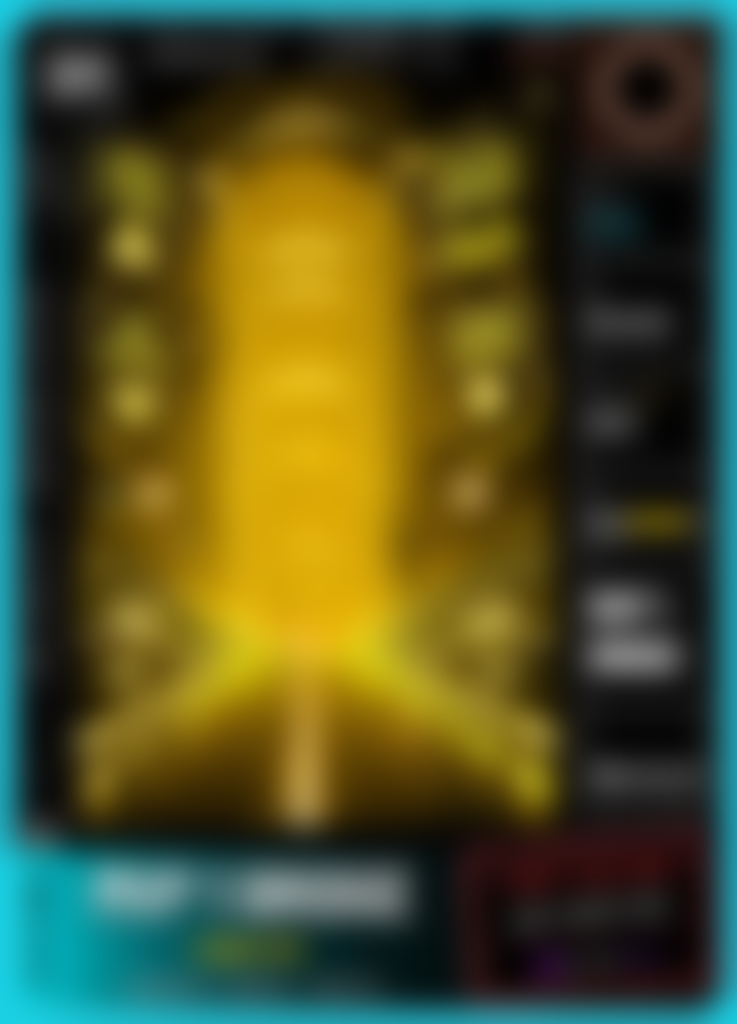
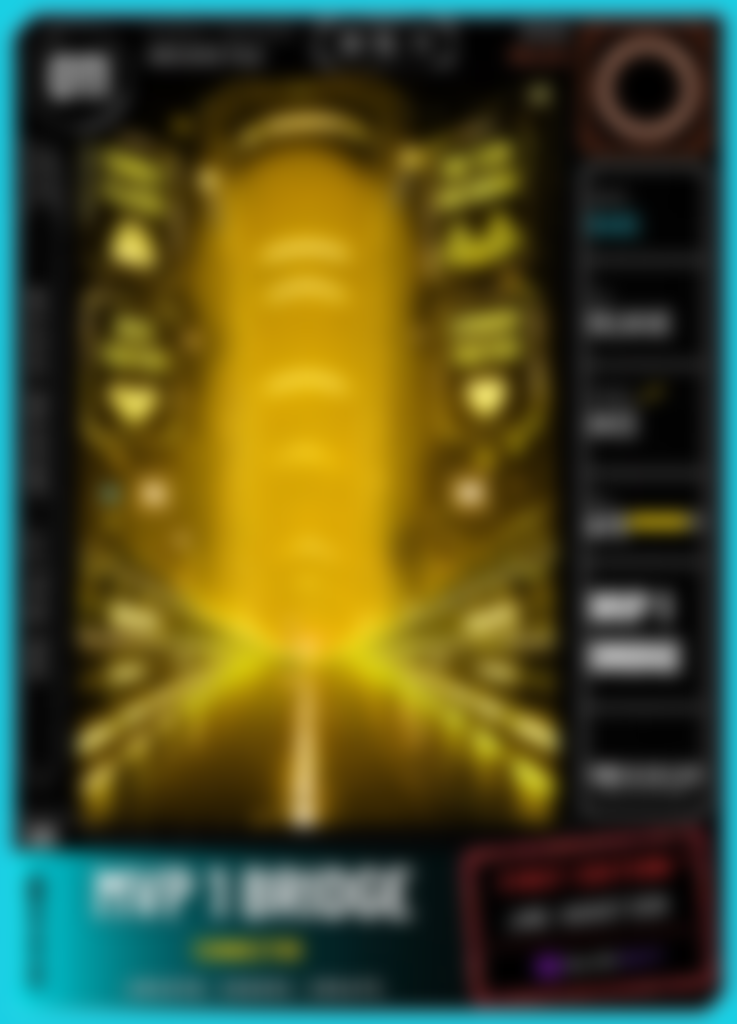
feat: milder blur previews, clickable cards, and discord CTA modals

diff --git a/src/app/album/AlbumClient.tsx b/src/app/album/AlbumClient.tsx
@@ -101,41 +101,50 @@ export default function AlbumClient({ cards }: AlbumClientProps) {
             <motion.div
               key={card.card_id}
               onClick={() => {
-                if (card.isOwned) {
-                  setSelectedCard(card);
-                  setIsFlipped(false);
-                }
+                setSelectedCard(card);
+                setIsFlipped(false);
               }}
-              className={`glass-card overflow-hidden border flex flex-col h-full relative group transition-all duration-500 ${
+              className={`glass-card overflow-hidden border flex flex-col h-full relative group transition-all duration-500 cursor-pointer hover:scale-[1.045] active:scale-[0.985] ${
                 card.isOwned
-                  ? `cursor-pointer hover:scale-[1.02] border-white/10 hover:border-white/20 hover:bg-[#0e0e12] ${styles.glow}`
-                  : "border-white/5 opacity-70 shadow-none pointer-events-none"
+                  ? `border-white/10 hover:border-white/20 hover:bg-[#0e0e12] ${styles.glow}`
+                  : "border-white/5 opacity-75 hover:opacity-95 hover:border-white/15 bg-white/[0.01]"
               }`}
             >
               {/* Asset karty nebo silueta */}
               <div className="aspect-[7/10] relative w-full overflow-hidden bg-black/50 flex items-center justify-center border-b border-white/5 select-none">
                 {card.isOwned ? (
-                  <img
-                    src={`/api/cards/${card.card_id}/image?side=front`}
-                    alt={card.name}
-                    className="w-full h-full object-cover transition-transform duration-700 group-hover:scale-105"
-                  />
+                  <>
+                    <img
+                      src={`/api/cards/${card.card_id}/image?side=front`}
+                      alt={card.name}
+                      className="w-full h-full object-cover transition-transform duration-700 group-hover:scale-110"
+                    />
+                    {/* Hover click CTA overlay pro vlastněnou kartu */}
+                    <div className="absolute inset-0 bg-black/30 opacity-0 group-hover:opacity-100 transition-opacity duration-300 flex items-center justify-center z-15 backdrop-blur-[0.5px]">
+                      <span className="px-3.5 py-1.5 rounded-xl bg-white/10 border border-white/20 backdrop-blur-md text-[10px] font-display font-bold text-white tracking-widest uppercase shadow-lg transform translate-y-2 group-hover:translate-y-0 transition-all duration-300">
+                        Zobrazit detail
+                      </span>
+                    </div>
+                  </>
                 ) : (
                   <img
                     src={`/cards/previews/${card.card_id}_blur.png`}
                     alt={card.name}
-                    className="w-full h-full object-cover opacity-85 filter blur-[1px]"
+                    className="w-full h-full object-cover opacity-85 filter blur-[0.5px] brightness-[0.75] transition-transform duration-700 group-hover:scale-110"
                   />
                 )}
 
-                {/* Locked overlay na nevlastněné kartě */}
+                {/* Locked/Unowned overlay na nevlastněné kartě s hover efektem */}
                 {!card.isOwned && (
-                  <div className="absolute inset-0 bg-black/55 flex flex-col items-center justify-center z-20 backdrop-blur-[1px]">
-                    <div className="w-12 h-12 rounded-xl bg-white/5 border border-white/10 flex items-center justify-center mb-2">
-                      <Lock size={20} className="text-white/60" />
+                  <div className="absolute inset-0 bg-black/55 flex flex-col items-center justify-center z-20 backdrop-blur-[1px] group-hover:bg-black/65 transition-colors duration-300">
+                    <div className="w-12 h-12 rounded-xl bg-white/5 border border-white/10 flex items-center justify-center mb-2 group-hover:scale-110 group-hover:border-white/20 transition-all duration-300">
+                      <Lock size={20} className="text-white/60 group-hover:text-white transition-colors duration-300" />
                     </div>
-                    <span className="font-display text-xs font-bold text-white/60 tracking-wider uppercase">
+                    <span className="font-display text-xs font-bold text-white/60 tracking-wider uppercase transition-all duration-300 group-hover:text-white group-hover:scale-105">
                       {isFullyHidden ? "Uzamčeno" : "Nezískáno"}
+                    </span>
+                    <span className="absolute bottom-4 text-[9px] font-display font-semibold tracking-widest uppercase text-white/30 opacity-0 group-hover:opacity-100 transition-opacity duration-300">
+                      {isFullyHidden ? "Detail relikvie" : "Jak získat?"}
                     </span>
                   </div>
                 )}
@@ -215,127 +224,182 @@ export default function AlbumClient({ cards }: AlbumClientProps) {
                   <X size={16} />
                 </button>
 
-                 {/* Levá část: Karta s 3D otáčením */}
+                 {/* Levá část: Obrázek karty (3D otáčení pro vlastněné, statický náhled pro nevlastněné) */}
                  <div className="w-full md:w-[45%] flex flex-col items-center justify-center border-b md:border-b-0 md:border-r border-white/5 select-none bg-black/40 p-6 sm:p-8 gap-4 relative">
-                   <div 
-                     className="w-full relative transition-transform duration-700 cursor-pointer"
-                     style={{ 
-                       transformStyle: "preserve-3d",
-                       transform: isFlipped ? "rotateY(180deg)" : "rotateY(0deg)",
-                       aspectRatio: "7/10"
-                     }}
-                     onClick={() => setIsFlipped(!isFlipped)}
-                   >
-                     {/* Lícová strana (Přední strana karty) */}
-                     <div 
-                       className="absolute inset-0 w-full h-full flex flex-col items-center justify-center bg-black overflow-hidden rounded-xl border border-white/10"
-                       style={{ backfaceVisibility: "hidden" }}
-                     >
+                   {selectedCard.isOwned ? (
+                     <>
+                       <div 
+                         className="w-full relative transition-transform duration-700 cursor-pointer"
+                         style={{ 
+                           transformStyle: "preserve-3d",
+                           transform: isFlipped ? "rotateY(180deg)" : "rotateY(0deg)",
+                           aspectRatio: "7/10"
+                         }}
+                         onClick={() => setIsFlipped(!isFlipped)}
+                       >
+                         {/* Lícová strana (Přední strana karty) */}
+                         <div 
+                           className="absolute inset-0 w-full h-full flex flex-col items-center justify-center bg-black overflow-hidden rounded-xl border border-white/10"
+                           style={{ backfaceVisibility: "hidden" }}
+                         >
+                           <img
+                             src={`/api/cards/${selectedCard.card_id}/image?side=front`}
+                             alt={selectedCard.name}
+                             className="w-full h-full object-cover"
+                           />
+                           {/* Badge edice ve foto rohu */}
+                           <span className={`absolute top-4 left-4 text-[9px] font-bold font-display px-2 py-0.5 rounded border tracking-wider ${styles.text}`}>
+                             {selectedCard.family.replace("_", " ")}
+                           </span>
+                         </div>
+
+                         {/* Rubová strana (Zadní strana karty) */}
+                         <div 
+                           className="absolute inset-0 w-full h-full rounded-xl border overflow-hidden bg-black"
+                           style={{ 
+                             backfaceVisibility: "hidden", 
+                             transform: "rotateY(180deg)",
+                             borderWidth: "1.5px",
+                             borderColor: styles.color
+                           }}
+                         >
+                           <img
+                             src={`/api/cards/${selectedCard.card_id}/image?side=back`}
+                             alt={`${selectedCard.name} - Zadní strana`}
+                             className="w-full h-full object-cover"
+                           />
+                         </div>
+                       </div>
+
+                       {/* Tlačítko pro otočení karty */}
+                       <button
+                         onClick={() => setIsFlipped(!isFlipped)}
+                         className="flex items-center gap-1.5 px-3 py-1.5 rounded-lg border border-white/10 bg-white/5 hover:bg-white/10 text-[10px] font-bold text-slate-400 hover:text-white uppercase tracking-wider transition-all duration-300 cursor-pointer"
+                       >
+                         <Compass size={12} className="animate-spin-slow text-purple-400" />
+                         Otočit kartu
+                       </button>
+                     </>
+                   ) : (
+                     <div className="w-full aspect-[7/10] relative rounded-xl overflow-hidden border border-white/10 shadow-lg">
                        <img
-                         src={`/api/cards/${selectedCard.card_id}/image?side=front`}
+                         src={`/cards/previews/${selectedCard.card_id}_blur.png`}
                          alt={selectedCard.name}
-                         className="w-full h-full object-cover"
+                         className="w-full h-full object-cover filter blur-[0.5px] brightness-[0.75]"
                        />
-                       {/* Badge edice ve foto rohu */}
-                       <span className={`absolute top-4 left-4 text-[9px] font-bold font-display px-2 py-0.5 rounded border tracking-wider ${styles.text}`}>
-                         {selectedCard.family.replace("_", " ")}
-                       </span>
+                       <div className="absolute inset-0 bg-black/45 flex flex-col items-center justify-center">
+                         <div className="w-12 h-12 rounded-xl bg-white/5 border border-white/10 flex items-center justify-center mb-2">
+                           <Lock size={20} className="text-white/60" />
+                         </div>
+                         <span className="font-display text-xs font-bold text-white/60 tracking-wider uppercase">
+                           Nezískáno
+                         </span>
+                       </div>
                      </div>
-
-                     {/* Rubová strana (Zadní strana karty) */}
-                     <div 
-                       className="absolute inset-0 w-full h-full rounded-xl border overflow-hidden bg-black"
-                       style={{ 
-                         backfaceVisibility: "hidden", 
-                         transform: "rotateY(180deg)",
-                         borderWidth: "1.5px",
-                         borderColor: styles.color
-                       }}
-                     >
-                       <img
-                         src={`/api/cards/${selectedCard.card_id}/image?side=back`}
-                         alt={`${selectedCard.name} - Zadní strana`}
-                         className="w-full h-full object-cover"
-                       />
-                     </div>
-                   </div>
-
-                   {/* Tlačítko pro otočení karty */}
-                   <button
-                     onClick={() => setIsFlipped(!isFlipped)}
-                     className="flex items-center gap-1.5 px-3 py-1.5 rounded-lg border border-white/10 bg-white/5 hover:bg-white/10 text-[10px] font-bold text-slate-400 hover:text-white uppercase tracking-wider transition-all duration-300 cursor-pointer"
-                   >
-                     <Compass size={12} className="animate-spin-slow text-purple-400" />
-                     Otočit kartu
-                   </button>
+                   )}
                  </div>
 
-                {/* Pravá část: Lore detaily */}
+                {/* Pravá část: Lore detaily a CTA */}
                 <div className="p-6 md:p-8 flex-1 flex flex-col justify-between">
                   <div className="space-y-4">
                     <div>
                       <div className="flex items-center gap-2 mb-1.5 flex-wrap">
                         <h3 className="font-display font-bold text-xl uppercase tracking-wider text-white">
-                          {selectedCard.name}
+                          {!selectedCard.isOwned && selectedCard.is_locked ? "Utajený Artefakt" : selectedCard.name}
                         </h3>
-                         <span className={`text-[9px] font-bold px-2 py-0.5 rounded border tracking-wider flex items-center gap-0.5 shrink-0 uppercase ${
-                          selectedCard.user_edition === "LEGENDARY" || selectedCard.user_edition === "FIRST_EDITION"
-                            ? "bg-amber-500/10 text-amber-400 border-amber-500/20"
-                            : selectedCard.user_edition === "RARE"
-                              ? "bg-blue-500/10 text-blue-400 border-blue-500/20"
-                              : "bg-white/5 text-white/50 border-white/10"
-                        }`}>
-                          {(selectedCard.user_edition === "LEGENDARY" || selectedCard.user_edition === "FIRST_EDITION") && <Sparkles size={8} className="text-amber-400" />}
-                          {selectedCard.user_edition === "FIRST_EDITION" ? "FIRST EDITION" : selectedCard.user_edition === "BASE" ? "BASE EDITION" : selectedCard.user_edition}
-                        </span>
+                        {selectedCard.isOwned && (
+                          <span className={`text-[9px] font-bold px-2 py-0.5 rounded border tracking-wider flex items-center gap-0.5 shrink-0 uppercase ${
+                            selectedCard.user_edition === "LEGENDARY" || selectedCard.user_edition === "FIRST_EDITION"
+                              ? "bg-amber-500/10 text-amber-400 border-amber-500/20"
+                              : selectedCard.user_edition === "RARE"
+                                ? "bg-blue-500/10 text-blue-400 border-blue-500/20"
+                                : "bg-white/5 text-white/50 border-white/10"
+                          }`}>
+                            {(selectedCard.user_edition === "LEGENDARY" || selectedCard.user_edition === "FIRST_EDITION") && <Sparkles size={8} className="text-amber-400" />}
+                            {selectedCard.user_edition === "FIRST_EDITION" ? "FIRST EDITION" : selectedCard.user_edition === "BASE" ? "BASE EDITION" : selectedCard.user_edition}
+                          </span>
+                        )}
+                        {!selectedCard.isOwned && (
+                          <span className="text-[9px] font-bold px-2 py-0.5 rounded border tracking-wider bg-white/5 text-white/40 border-white/10 uppercase">
+                            Nezískáno
+                          </span>
+                        )}
                       </div>
-                      <span className="text-[10px] font-semibold text-slate-500 tracking-wider">
-                        ID KARTY: {selectedCard.card_id}
+                      <span className="text-[10px] font-semibold text-slate-500 tracking-wider uppercase">
+                        RODINA: {selectedCard.family.replace("_", " ")}
                       </span>
                     </div>
 
                     <div className="p-4 rounded-xl bg-white/[0.02] border border-white/5">
                       <p className="text-xs text-slate-300 leading-relaxed italic">
-                        „{selectedCard.lore}“
+                        {!selectedCard.isOwned && selectedCard.is_locked 
+                          ? "„Pravá identita a moc této relikvie jsou chráněny přísným kódem. Záznamy v archivu budou odhaleny až nastane správný čas.“"
+                          : `„${selectedCard.lore}“`
+                        }
                       </p>
                     </div>
 
-                    {/* Metadata o získání */}
-                    <div className="space-y-2.5 border-t border-white/5 pt-4 text-xs">
-                      <div className="flex items-center gap-2 text-slate-400">
-                        <Calendar size={14} className="text-purple-400 shrink-0" />
-                        <span>Získáno dne:</span>
-                        <strong className="text-slate-200 ml-auto font-medium">
-                          {selectedCard.obtained_at ? new Date(selectedCard.obtained_at).toLocaleDateString("cs-CZ", {
-                            day: "numeric",
-                            month: "long",
-                            year: "numeric"
-                          }) : "-"}
-                        </strong>
-                      </div>
+                    {selectedCard.isOwned ? (
+                      /* Metadata o získání pro vlastněnou kartu */
+                      <div className="space-y-2.5 border-t border-white/5 pt-4 text-xs">
+                        <div className="flex items-center gap-2 text-slate-400">
+                          <Calendar size={14} className="text-purple-400 shrink-0" />
+                          <span>Získáno dne:</span>
+                          <strong className="text-slate-200 ml-auto font-medium">
+                            {selectedCard.obtained_at ? new Date(selectedCard.obtained_at).toLocaleDateString("cs-CZ", {
+                              day: "numeric",
+                              month: "long",
+                              year: "numeric"
+                            }) : "-"}
+                          </strong>
+                        </div>
 
-                      <div className="flex items-center gap-2 text-slate-400">
-                        <Compass size={14} className="text-purple-400 shrink-0" />
-                        <span>Způsob získání:</span>
-                        <strong className="text-slate-200 ml-auto font-medium">
-                          {formatObtainedVia(selectedCard.obtained_via)}
-                        </strong>
-                      </div>
+                        <div className="flex items-center gap-2 text-slate-400">
+                          <Compass size={14} className="text-purple-400 shrink-0" />
+                          <span>Způsob získání:</span>
+                          <strong className="text-slate-200 ml-auto font-medium">
+                            {formatObtainedVia(selectedCard.obtained_via)}
+                          </strong>
+                        </div>
 
-                      <div className="flex items-center gap-2 text-slate-400">
-                        <Shield size={14} className="text-purple-400 shrink-0" />
-                        <span>Rarita / Status:</span>
-                        <strong className="text-slate-200 ml-auto font-medium uppercase">
-                          {selectedCard.user_edition === "FIRST_EDITION" ? "Limitovaná sběratelská" : selectedCard.user_edition === "BASE" ? "Základní herní" : selectedCard.user_edition}
-                        </strong>
+                        <div className="flex items-center gap-2 text-slate-400">
+                          <Shield size={14} className="text-purple-400 shrink-0" />
+                          <span>Rarita / Status:</span>
+                          <strong className="text-slate-200 ml-auto font-medium uppercase">
+                            {selectedCard.user_edition === "FIRST_EDITION" ? "Limitovaná sběratelská" : selectedCard.user_edition === "BASE" ? "Základní herní" : selectedCard.user_edition}
+                          </strong>
+                        </div>
                       </div>
-                    </div>
+                    ) : (
+                      /* CTA Box pro nevlastněnou kartu */
+                      <div className="border-t border-white/5 pt-4 space-y-3">
+                        <p className="text-xs text-slate-400 leading-relaxed">
+                          Tato karta čeká na své odemčení. Všechny karty mají lícovou i rubovou stranu s detailními informacemi o hráčích, které uvidíš po získání ve svém albu.
+                        </p>
+                        <div className="p-3.5 rounded-xl bg-[#5865F2]/10 border border-[#5865F2]/20 flex flex-col gap-2.5 mt-2">
+                          <span className="text-[11px] font-bold text-slate-200 uppercase tracking-wide">
+                            Chceš získat tento artefakt?
+                          </span>
+                          <p className="text-[11px] text-slate-300 leading-relaxed">
+                            Připoj se do našeho Discordu, plň questy v reálném světě a získej tuto kartu přímo do své digitální kolekce.
+                          </p>
+                          <a
+                            href="https://discord.gg/MGnNWkcqQf"
+                            target="_blank"
+                            rel="noopener noreferrer"
+                            className="inline-flex items-center justify-center gap-2 w-full py-2 bg-[#5865F2] hover:bg-[#4752C4] active:bg-[#3c45a3] text-white font-display font-bold text-xs rounded-lg transition-all shadow-[0_0_15px_rgba(88,101,242,0.2)] hover:shadow-[0_0_20px_rgba(88,101,242,0.4)] text-center cursor-pointer"
+                          >
+                            Otevřít Discord →
+                          </a>
+                        </div>
+                      </div>
+                    )}
                   </div>
 
-                  <div className="mt-8">
+                  <div className="mt-8 flex flex-col gap-2">
                     <button
                       onClick={() => setSelectedCard(null)}
-                      className="w-full py-2.5 text-xs font-semibold bg-white/5 hover:bg-white/10 active:bg-white/15 border border-white/10 text-white rounded-lg transition-colors cursor-pointer"
+                      className="w-full py-2.5 text-xs font-semibold bg-white/5 hover:bg-white/10 active:bg-white/15 border border-white/10 text-white rounded-lg transition-colors cursor-pointer text-center"
                     >
                       Zavřít detail
                     </button>
